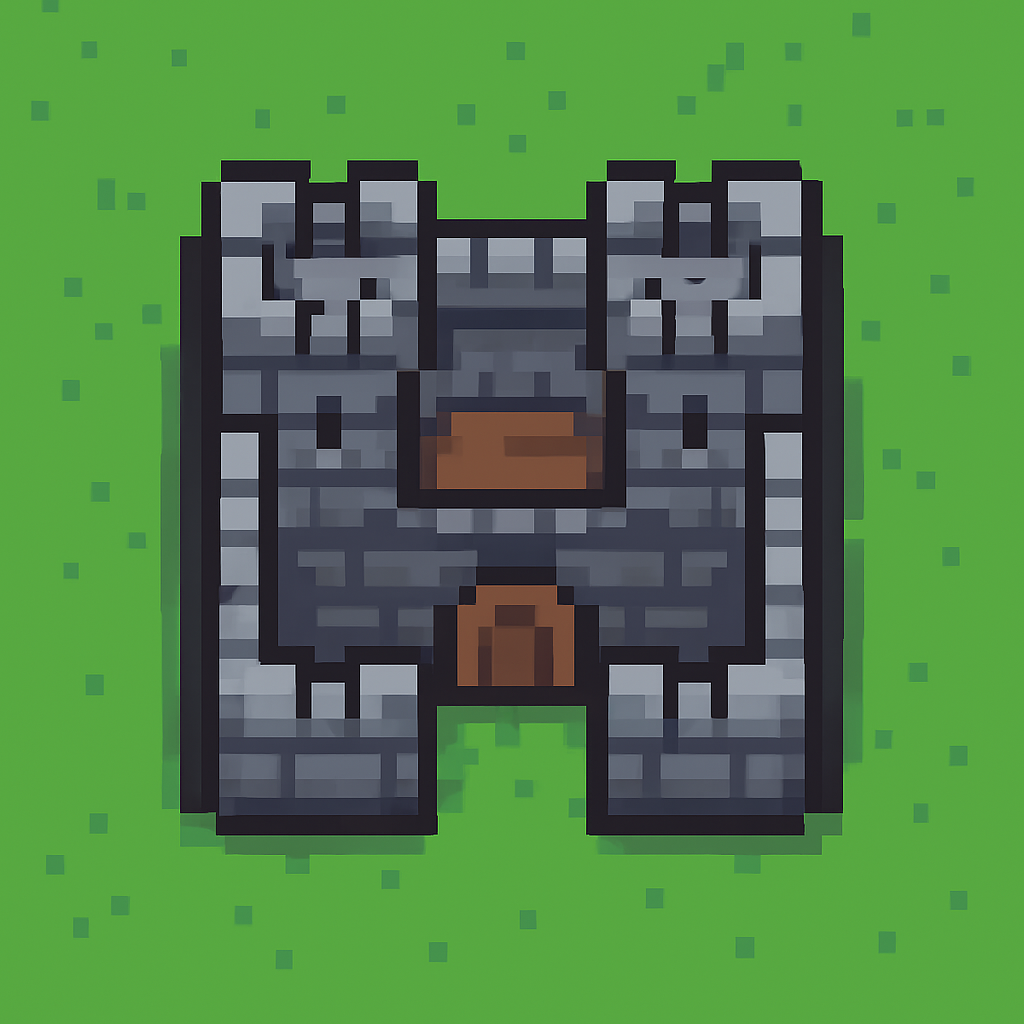
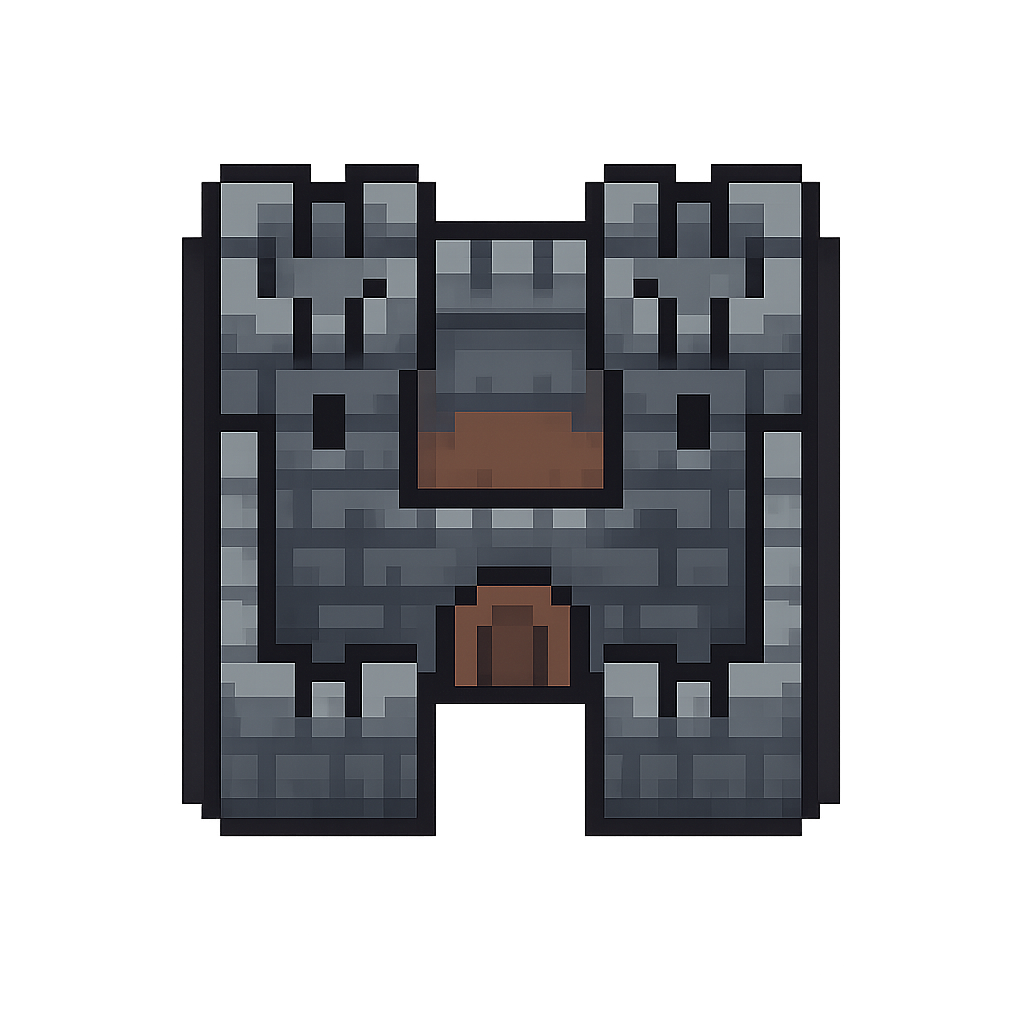
added sprite for enemy

diff --git a/src/towers/tower.ts b/src/towers/tower.ts
@@ -7,6 +7,8 @@ export class Tower {
   shouldShot: boolean = false;
   towerTexture: r.Texture;
   projectileTexture: r.Texture;
+  towerSize = 50;
+  projectileSize = 10;
 
   constructor(x: number, y: number) {
     this.position.x = x;
@@ -18,12 +20,17 @@ export class Tower {
   }
 
   draw() {
-    const towerSize = 50;
+    this.drawTower();
+    this.drawTowerCircle();
+    this.drawProjectile();
+  }
+
+  drawTower() {
     const destRect = {
       x: this.position.x,
       y: this.position.y,
-      width: towerSize,
-      height: towerSize,
+      width: this.towerSize,
+      height: this.towerSize,
     };
     const sourceRect = {
       x: 0,
@@ -39,18 +46,15 @@ export class Tower {
       0,
       r.WHITE,
     );
-    r.DrawCircleLines(
-      this.position.x + towerSize / 2,
-      this.position.y + towerSize / 2,
-      100,
-      r.ORANGE,
-    );
-    const projectileSize = 10;
+
+  }
+  
+  drawProjectile() {
     const projectileDestRect = {
-      x: this.projectile.x - projectileSize / 2,
-      y: this.projectile.y - projectileSize / 2,
-      width: projectileSize,
-      height: projectileSize,
+      x: this.projectile.x - this.projectileSize / 2,
+      y: this.projectile.y - this.projectileSize / 2,
+      width: this.projectileSize,
+      height: this.projectileSize,
     };
     const projectileSourceRect = {
       x: 0,
@@ -68,11 +72,14 @@ export class Tower {
     );
   }
 
-  reset() {
-    this.projectile.x = this.position.x;
-    this.projectile.y = this.position.y;
+  drawTowerCircle() {
+    r.DrawCircleLines(
+      this.position.x + this.towerSize / 2,
+      this.position.y + this.towerSize / 2,
+      100,
+      r.ORANGE,
+    );
   }
-
   checkIfEnemyWithinTowerRange(enemy: r.Vector2): void {
     const dx = enemy.x - this.position.x;
     const dy = enemy.y - this.position.y;

diff --git a/src/enemies/enemy.ts b/src/enemies/enemy.ts
@@ -2,14 +2,35 @@ import r from "raylib";
 
 export default class Enemy {
   pos: r.Vector2 = { x: 0, y: 0 };
-  padding: number = 25;
-  width: number = 10;
+  enemySize = 40;
+  enemyTexture: r.Texture;
 
-  constructor() {}
+  constructor() {
+    this.enemyTexture = r.LoadTexture('assets/enemy.png');
+  }
 
   draw(position: r.Vector2) {
-    this.pos.x = position.x + this.padding;
-    this.pos.y = position.y + this.padding;
-    r.DrawRectangle(this.pos.x, this.pos.y, this.width, this.width, r.RED);
+    this.pos.x = position.x + 5;
+    this.pos.y = position.y + 5;
+    const destRect = {
+      x: this.pos.x,
+      y: this.pos.y,
+      width: this.enemySize,
+      height: this.enemySize,
+    };
+    const sourceRect = {
+      x: 0,
+      y: 0,
+      width: this.enemyTexture.width,
+      height: this.enemyTexture.height,
+    };
+    r.DrawTexturePro(
+      this.enemyTexture,
+      sourceRect,
+      destRect,
+      { x: 0, y: 0 },
+      0,
+      r.WHITE,
+    );
   }
 }

diff --git a/src/map/gameMap.ts b/src/map/gameMap.ts
@@ -14,7 +14,7 @@ export default class GameMap {
   constructor(mouseClick: (pos: r.Vector2) => void) {
     this.enemyPath = [];
     this.mouseClick = mouseClick;
-    this.baseTexture = r.LoadTexture("assets/base-bgless.png");
+    this.baseTexture = r.LoadTexture("assets/base.png");
     this.parseEnemyPath();
   }
 

diff --git a/src/index.ts b/src/index.ts
@@ -22,7 +22,7 @@ function main() {
     pause = !pause;
     if (pause) {
       waveMgr.reset();
-      towers.forEach((tower) => tower.reset());
+      towers.forEach((tower) => tower.resetProjectile());
     }
   };
   const panel = new Panel(onStart);
